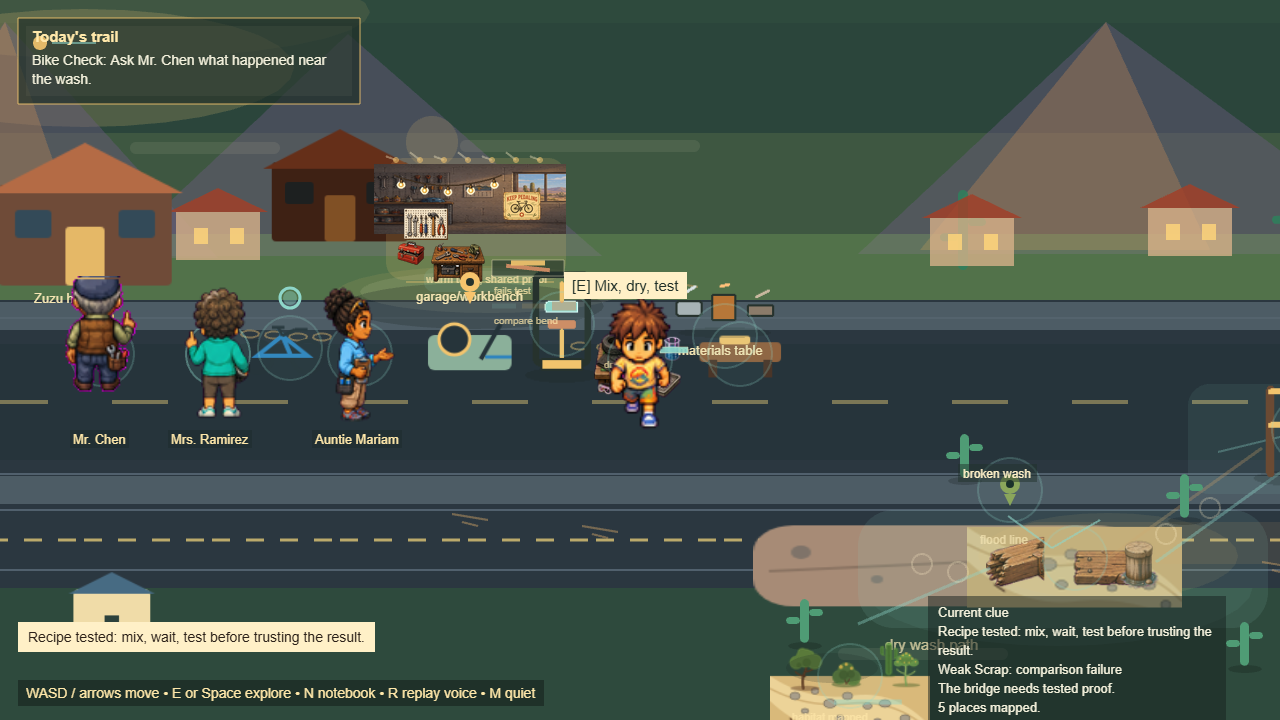
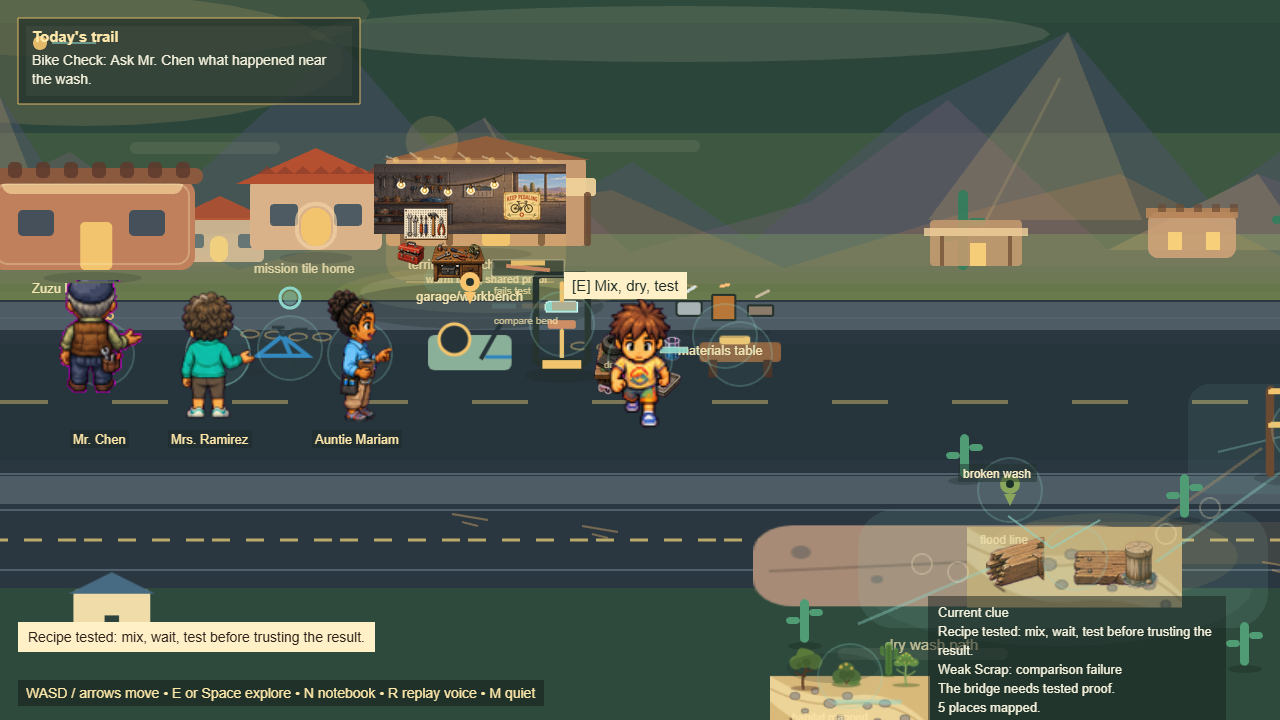
Refine Act 1 southwest homes and mountains

diff --git a/src/game/phaser/scenes/NeighborhoodScene.js b/src/game/phaser/scenes/NeighborhoodScene.js
@@ -29,6 +29,8 @@ export default class NeighborhoodScene extends Phaser.Scene {
       scope: 'complete_act1',
       palette: 'warm_sonoran_neighborhood',
       authoredBeats: [
+        'southwest_house_styles',
+        'layered_sonoran_mountains',
         'garage_sanctuary',
         'npc_identity_cluster',
         'dry_wash_bridge_problem',
@@ -113,9 +115,7 @@ export default class NeighborhoodScene extends Phaser.Scene {
       this.add.rectangle(x, 486, 56, 4, 0xd8c073).setAlpha(0.48);
     }
 
-    this.add.image(265, 300, ASSET_KEYS.house).setScale(1.4);
-    this.add.text(214, 374, 'Zuzu home', labelStyle());
-    this.add.image(520, 270, ASSET_KEYS.house).setScale(1.1).setTint(0x8f6f5c);
+    this.drawSouthwestHomes();
     this.drawGarageWarmth();
     this.drawGarageSanctuaryDetails();
     this.add.image(650, 312, ASSET_KEYS.garageWorkbench).setScale(1.0);
@@ -201,26 +201,142 @@ export default class NeighborhoodScene extends Phaser.Scene {
 
   drawSonoranVista() {
     const vista = this.add.graphics();
-    vista.fillStyle(0xffd17a, 0.18).fillEllipse(264, 152, 420, 118);
-    vista.fillStyle(0x6d5a82, 0.42);
-    vista.fillTriangle(0, 342, 185, 106, 398, 342);
-    vista.fillTriangle(292, 340, 528, 118, 782, 340);
-    vista.fillTriangle(1038, 338, 1286, 106, 1600, 338);
-    vista.fillStyle(0xd89152, 0.3);
-    vista.fillTriangle(52, 334, 185, 106, 264, 334);
-    vista.fillTriangle(1100, 334, 1286, 106, 1390, 334);
-    vista.fillStyle(0x8bbf65, 0.26).fillRect(0, 318, 1600, 70);
+    vista.fillStyle(0xffd17a, 0.14).fillEllipse(264, 144, 520, 132);
+    vista.fillStyle(0xfff0c7, 0.12).fillEllipse(860, 118, 740, 56);
+
+    // Layered basin-and-range silhouettes, with softer Sonoran colors than the old triangle peaks.
+    this.drawMountainRange(vista, [
+      [0, 332], [96, 276], [178, 176], [268, 316], [382, 254], [520, 126],
+      [686, 318], [812, 246], [932, 326], [1084, 198], [1248, 116],
+      [1390, 286], [1540, 178], [1600, 232], [1600, 356], [0, 356],
+    ], 0x4d526d, 0.42);
+    this.drawMountainRange(vista, [
+      [0, 346], [132, 292], [250, 236], [384, 332], [520, 274],
+      [664, 202], [810, 336], [990, 286], [1128, 184], [1288, 334],
+      [1438, 258], [1600, 318], [1600, 368], [0, 368],
+    ], 0x755c76, 0.34);
+    this.drawMountainRange(vista, [
+      [0, 362], [140, 318], [268, 286], [418, 354], [612, 302],
+      [792, 274], [964, 352], [1134, 300], [1300, 258], [1468, 344],
+      [1600, 314], [1600, 384], [0, 384],
+    ], 0xb7764a, 0.25);
+
+    vista.fillStyle(0xf2c46d, 0.18);
+    vista.fillTriangle(92, 318, 178, 176, 234, 318);
+    vista.fillTriangle(1108, 304, 1248, 116, 1322, 304);
+    vista.fillTriangle(1288, 334, 1438, 258, 1490, 334);
+    vista.lineStyle(3, 0xffd17a, 0.14);
+    vista.lineBetween(158, 226, 94, 330);
+    vista.lineBetween(1240, 162, 1158, 320);
+    vista.lineBetween(664, 202, 728, 316);
+
+    vista.fillStyle(0x8bbf65, 0.28).fillRect(0, 318, 1600, 70);
+    vista.fillStyle(0x5e7249, 0.24).fillRoundedRect(0, 350, 1600, 26, 12);
     for (const [x, y, h] of [[138, 362, 68], [226, 348, 84], [1138, 354, 80], [1470, 344, 96]]) {
       vista.fillStyle(0x2f7f5c, 0.88).fillRoundedRect(x, y - h, 10, h, 5);
       vista.fillRoundedRect(x - 18, y - h * 0.46, 18, 8, 4);
       vista.fillRoundedRect(x + 10, y - h * 0.65, 18, 8, 4);
     }
-    for (const [x, y] of [[178, 304], [356, 296], [1110, 302], [1328, 292]]) {
-      vista.fillStyle(0xd9b28a, 0.78).fillRect(x, y, 84, 48);
-      vista.fillStyle(0x9f4029, 0.86).fillTriangle(x - 8, y, x + 42, y - 24, x + 92, y);
-      vista.fillStyle(0xffd57a, 0.82).fillRect(x + 18, y + 16, 14, 16);
-      vista.fillRect(x + 54, y + 16, 14, 16);
+    this.drawBackgroundHome(vista, 178, 304, 'adobe');
+    this.drawBackgroundHome(vista, 356, 296, 'mission');
+    this.drawBackgroundHome(vista, 1110, 302, 'territorial');
+    this.drawBackgroundHome(vista, 1328, 292, 'adobe');
+  }
+
+  drawMountainRange(graphics, points, color, alpha) {
+    graphics.fillStyle(color, alpha);
+    graphics.beginPath();
+    graphics.moveTo(points[0][0], points[0][1]);
+    for (const [x, y] of points.slice(1)) graphics.lineTo(x, y);
+    graphics.closePath();
+    graphics.fillPath();
+  }
+
+  drawBackgroundHome(graphics, x, y, style) {
+    if (style === 'mission') {
+      graphics.fillStyle(0xe1c39b, 0.84).fillRoundedRect(x, y + 6, 88, 44, 5);
+      graphics.fillStyle(0xb34f2f, 0.9).fillTriangle(x - 8, y + 8, x + 44, y - 16, x + 96, y + 8);
+      graphics.fillStyle(0xf5d47c, 0.88).fillRoundedRect(x + 34, y + 24, 18, 26, 9);
+      graphics.fillStyle(0x3d5d68, 0.72).fillRoundedRect(x + 12, y + 22, 16, 14, 3);
+      graphics.fillRoundedRect(x + 62, y + 22, 16, 14, 3);
+      return;
     }
+    if (style === 'territorial') {
+      graphics.fillStyle(0xc99c70, 0.84).fillRoundedRect(x, y + 2, 92, 46, 4);
+      graphics.fillStyle(0xf0d19a, 0.8).fillRect(x - 6, y + 10, 104, 8);
+      graphics.fillStyle(0x6b4a33, 0.72).fillRect(x + 10, y + 18, 4, 30);
+      graphics.fillRect(x + 78, y + 18, 4, 30);
+      graphics.fillStyle(0xffd57a, 0.86).fillRect(x + 40, y + 25, 16, 23);
+      return;
+    }
+    graphics.fillStyle(0xd4a57a, 0.84).fillRoundedRect(x, y + 4, 88, 46, 10);
+    graphics.fillStyle(0xb78558, 0.9).fillRect(x - 2, y, 92, 10);
+    graphics.fillStyle(0x6b4a33, 0.68);
+    for (let i = 10; i < 84; i += 18) graphics.fillRect(x + i, y - 4, 8, 8);
+    graphics.fillStyle(0xffd57a, 0.86).fillRect(x + 20, y + 24, 14, 18);
+    graphics.fillRect(x + 58, y + 24, 14, 18);
+  }
+
+  drawSouthwestHomes() {
+    this.drawPuebloRevivalHome(170, 246, 205, 108, {
+      body: 0xbf805b,
+      trim: 0xe7bd88,
+      door: 0xf2c46d,
+      label: 'Zuzu home',
+    });
+    this.drawMissionTileHome(416, 230, 160, 104);
+    this.drawTerritorialPorchHome(566, 220, 200, 110);
+  }
+
+  drawPuebloRevivalHome(x, y, w, h, options = {}) {
+    const g = this.add.graphics();
+    const body = options.body || 0xc78d67;
+    const trim = options.trim || 0xe1b783;
+    g.fillStyle(0x17221f, 0.18).fillEllipse(x + w * 0.5, y + h + 8, w * 0.48, 12);
+    g.fillStyle(body, 1).fillRoundedRect(x, y + 18, w, h - 18, 14);
+    g.fillStyle(trim, 0.95).fillRoundedRect(x + 12, y + 8, w - 24, 24, 10);
+    g.fillStyle(0x8b5a3e, 1).fillRoundedRect(x - 8, y + 6, w + 16, 16, 8);
+    g.fillStyle(0x5e392b, 0.86);
+    for (let beamX = x + 18; beamX < x + w - 12; beamX += 28) {
+      g.fillRoundedRect(beamX, y, 14, 16, 5);
+    }
+    g.fillStyle(options.door || 0xf2c46d, 1).fillRoundedRect(x + w * 0.44, y + h - 48, 32, 48, 5);
+    g.fillStyle(0x31485a, 0.86).fillRoundedRect(x + 28, y + 48, 36, 26, 5);
+    g.fillRoundedRect(x + w - 66, y + 48, 36, 26, 5);
+    g.lineStyle(2, 0xfff0c7, 0.28).strokeRoundedRect(x + 6, y + 22, w - 12, h - 28, 12);
+    this.add.text(x + 42, y + h + 10, options.label || 'adobe home', labelStyle());
+  }
+
+  drawMissionTileHome(x, y, w, h) {
+    const g = this.add.graphics();
+    g.fillStyle(0x17221f, 0.16).fillEllipse(x + w * 0.5, y + h + 8, w * 0.46, 12);
+    g.fillStyle(0xd9b28a, 1).fillRoundedRect(x + 14, y + 34, w - 28, h - 34, 7);
+    g.fillStyle(0xb44f30, 1).fillTriangle(x, y + 38, x + w * 0.5, y + 2, x + w, y + 38);
+    g.fillStyle(0x8e3d2a, 0.72);
+    for (let tileX = x + 22; tileX < x + w - 20; tileX += 18) {
+      g.fillTriangle(tileX, y + 28, tileX + 9, y + 20, tileX + 18, y + 28);
+    }
+    g.fillStyle(0x31485a, 0.82).fillRoundedRect(x + 34, y + 58, 28, 22, 4);
+    g.fillRoundedRect(x + w - 62, y + 58, 28, 22, 4);
+    g.fillStyle(0xf2c46d, 1).fillRoundedRect(x + w * 0.5 - 15, y + 62, 30, 38, 15);
+    g.lineStyle(4, 0xf5d6a6, 0.62).strokeRoundedRect(x + w * 0.5 - 19, y + 58, 38, 44, 18);
+    this.add.text(x + 18, y + h + 10, 'mission tile home', labelStyle()).setAlpha(0.84);
+  }
+
+  drawTerritorialPorchHome(x, y, w, h) {
+    const g = this.add.graphics();
+    g.fillStyle(0x17221f, 0.16).fillEllipse(x + w * 0.5, y + h + 8, w * 0.46, 12);
+    g.fillStyle(0xc79b6f, 1).fillRoundedRect(x, y + 22, w, h - 22, 5);
+    g.fillStyle(0xf0d19a, 0.94).fillRoundedRect(x - 10, y + 42, w + 20, 18, 3);
+    g.fillStyle(0x6b4a33, 0.86);
+    for (let postX = x + 14; postX < x + w; postX += 46) {
+      g.fillRoundedRect(postX, y + 56, 7, h - 56, 3);
+    }
+    g.fillStyle(0x8f5e3d, 1).fillTriangle(x - 4, y + 24, x + w * 0.5, y, x + w + 4, y + 24);
+    g.fillStyle(0x31485a, 0.82).fillRoundedRect(x + 32, y + 66, 28, 24, 4);
+    g.fillRoundedRect(x + w - 60, y + 66, 28, 24, 4);
+    g.fillStyle(0xf2c46d, 1).fillRoundedRect(x + w * 0.48, y + 68, 28, 42, 4);
+    this.add.text(x + 22, y + h + 10, 'territorial porch', labelStyle()).setAlpha(0.84);
   }
 
   drawDesertDetails() {
